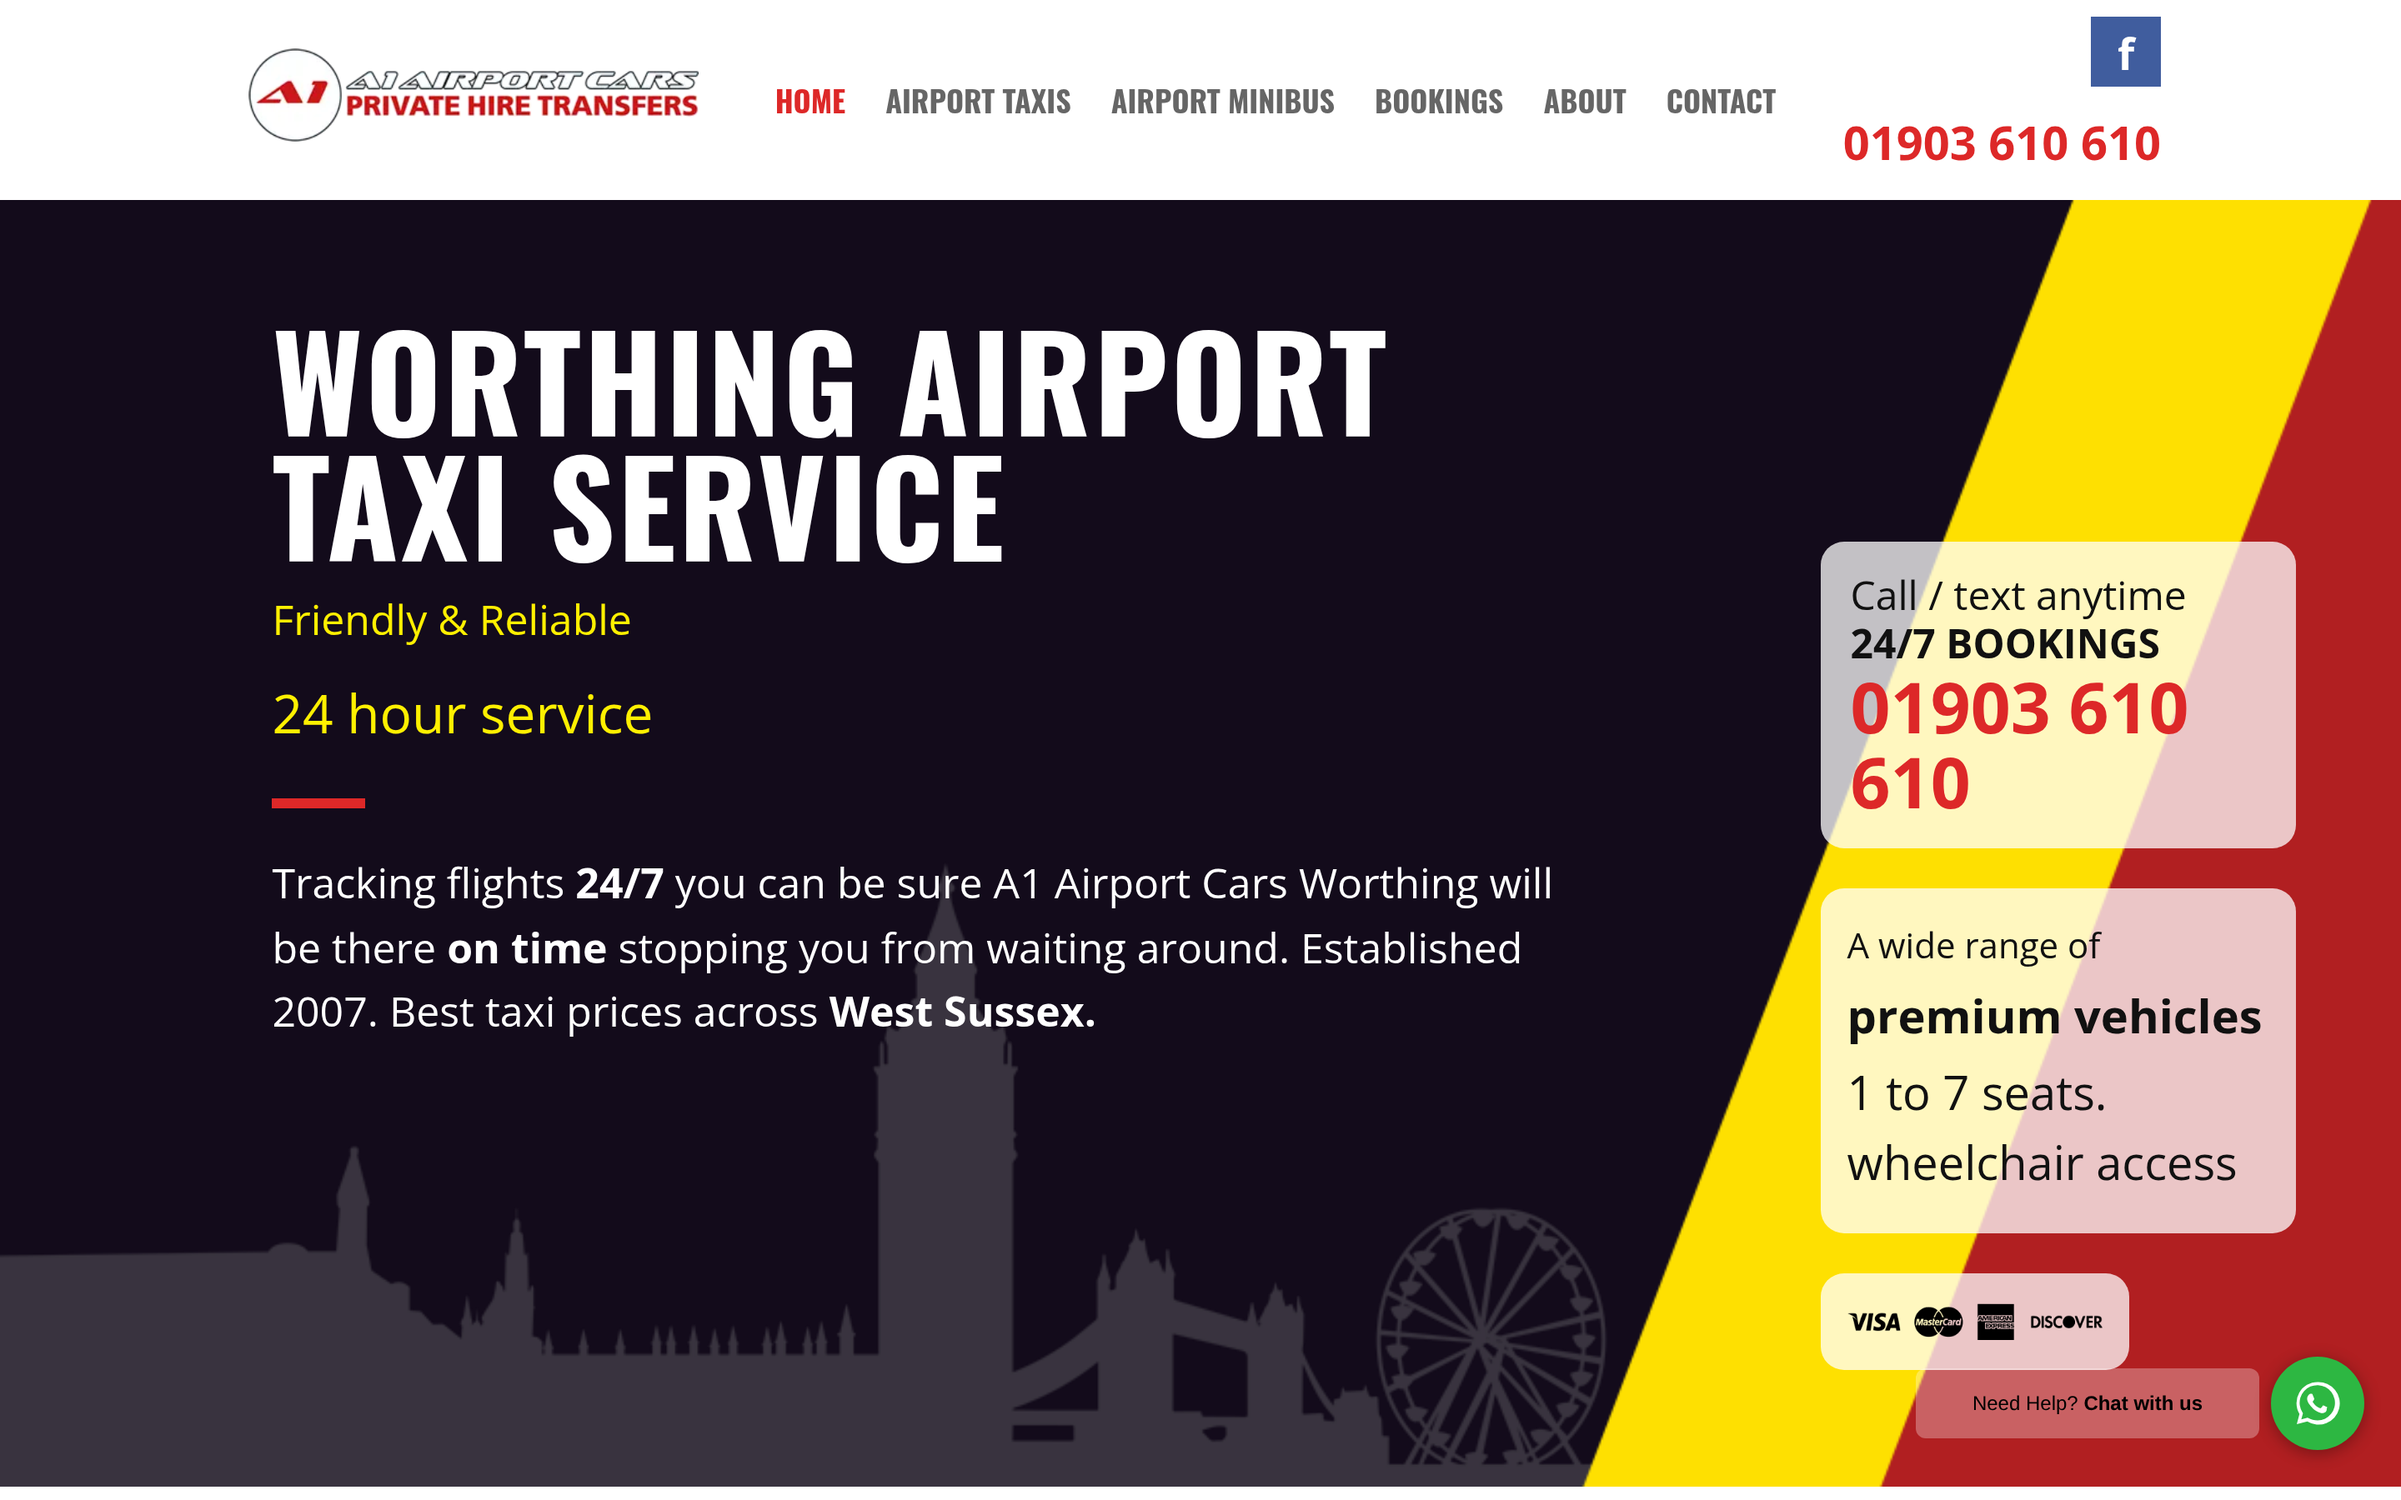
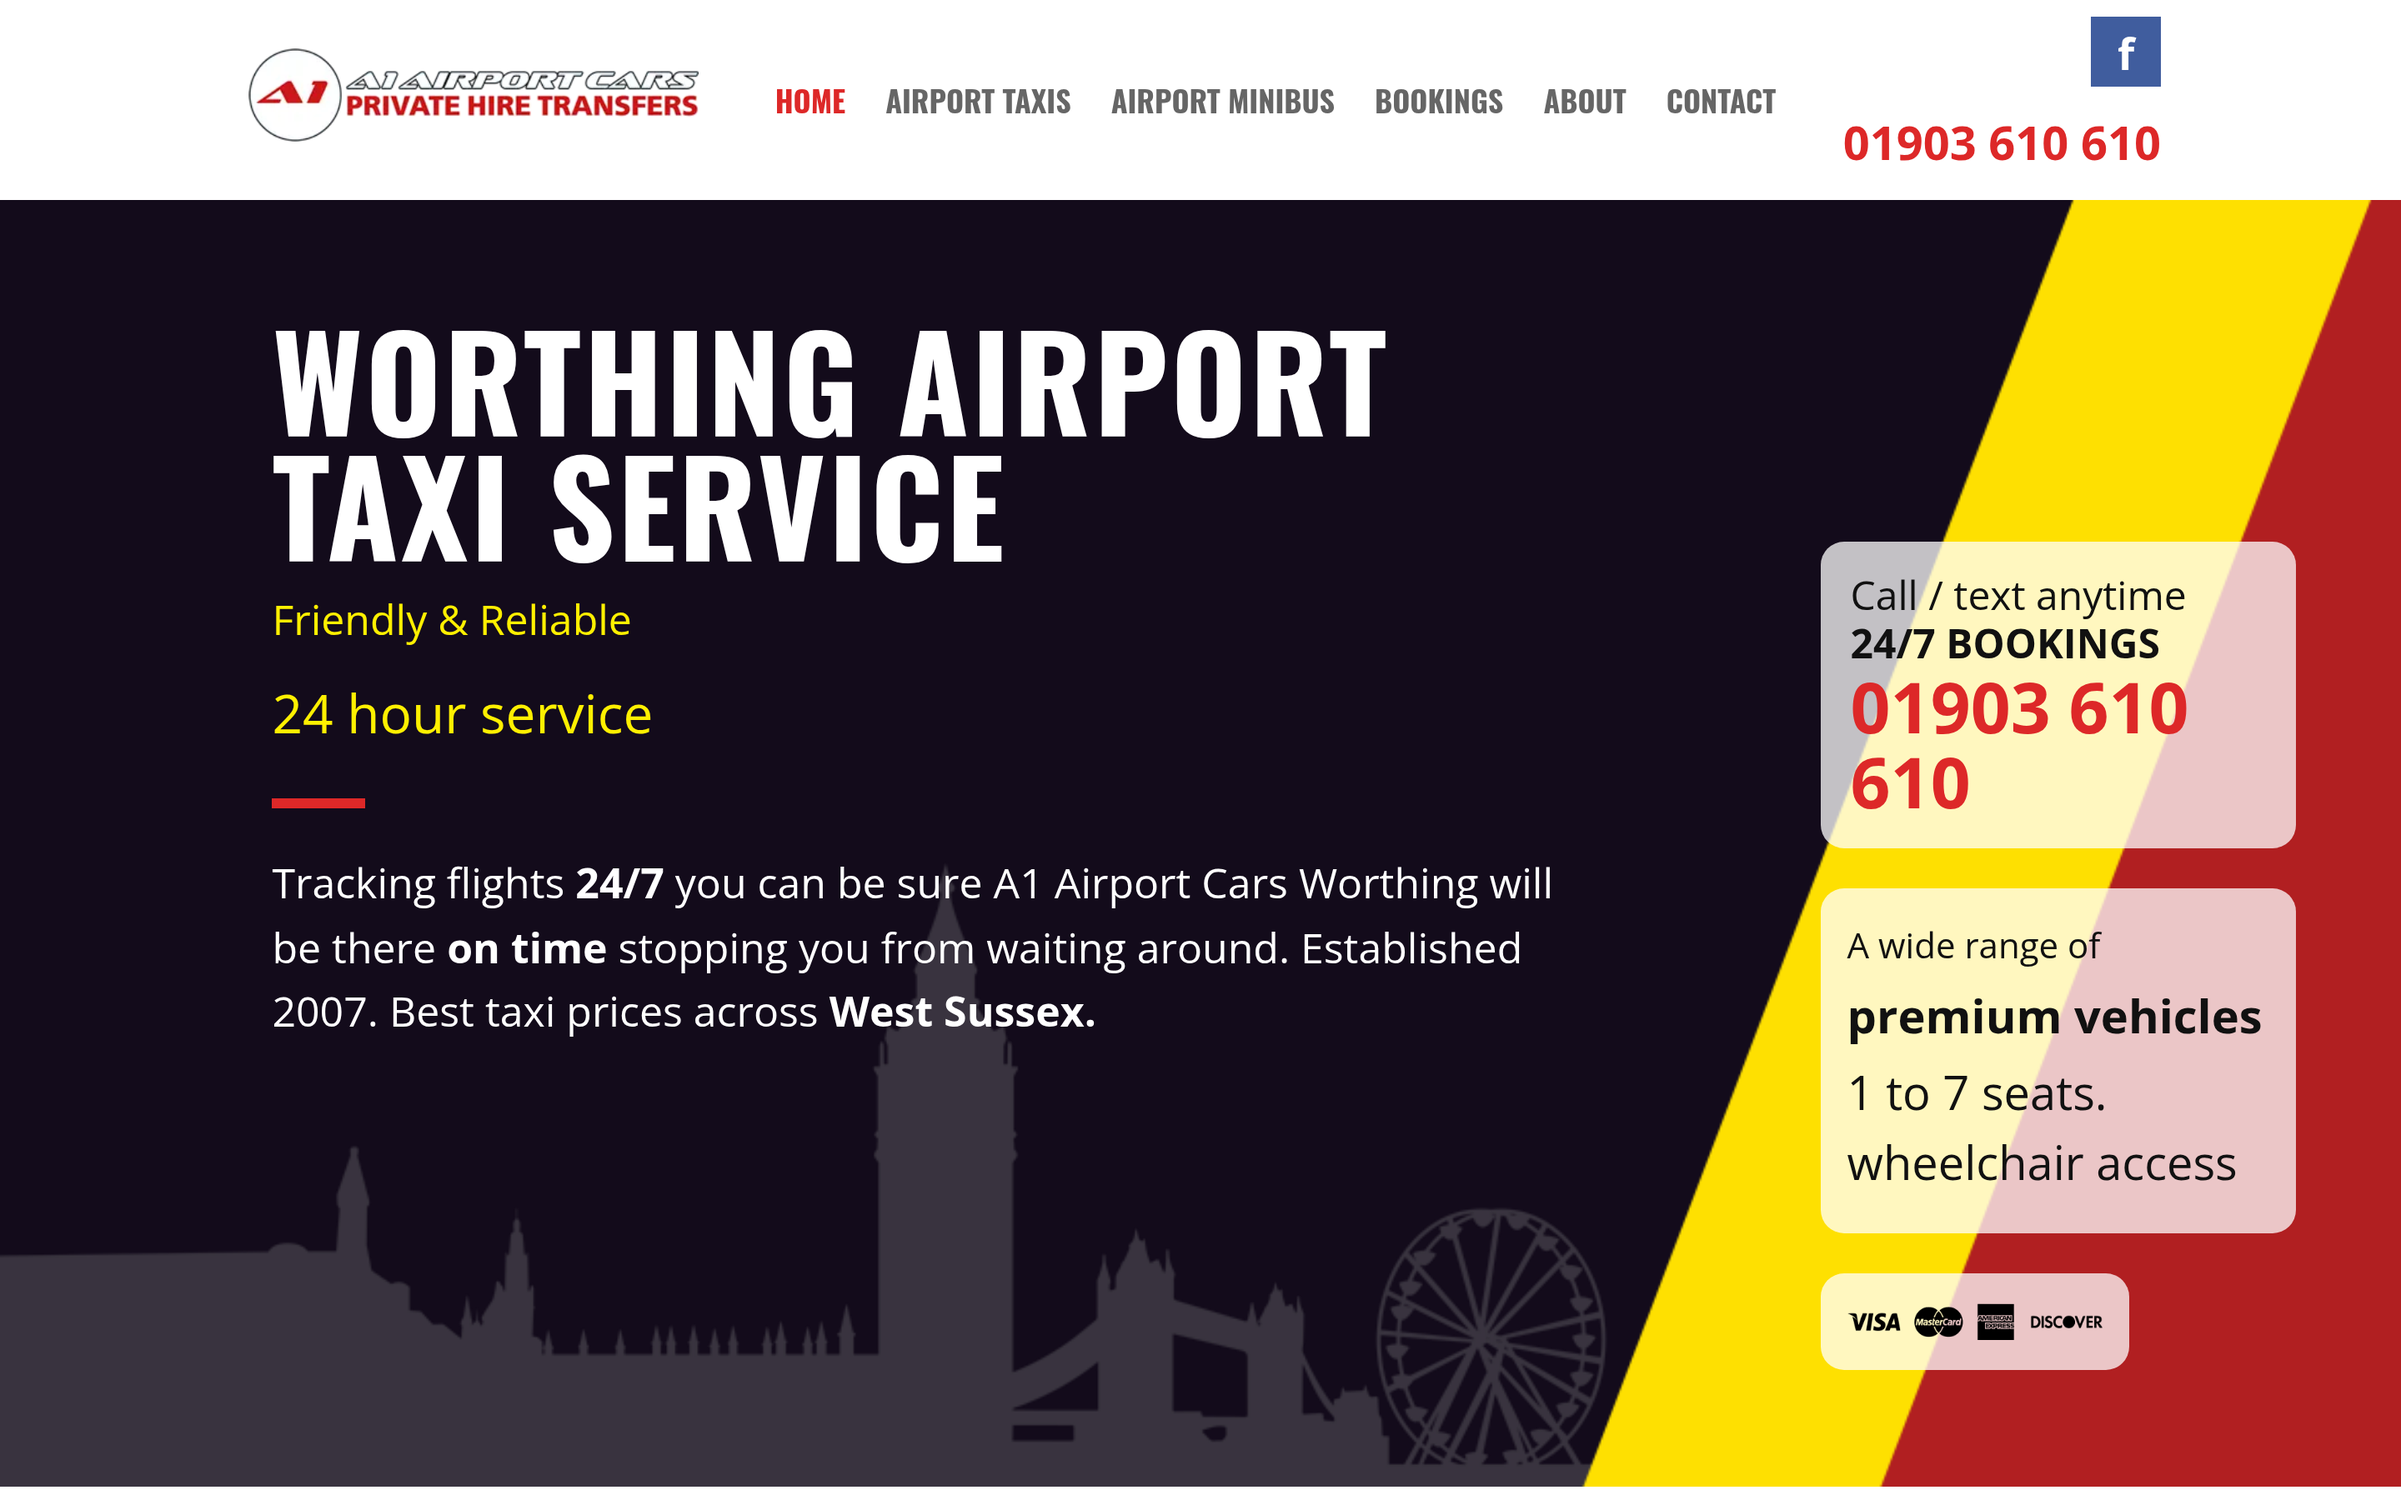
Changes

Changed region(s): [[0.7812, 0.9022, 1.0, 0.9644]]

diff --git a/scripts/mockups/capture.py b/scripts/mockups/capture.py
@@ -23,6 +23,7 @@ HIDE = """
   [id*="intercom" i],[class*="intercom" i],[id*="crisp" i],[class*="crisp" i],[id*="tawk" i],
   [id*="hubspot-messages" i],[class*="chat-widget" i],[id*="chat-widget" i],[class*="drift" i],
   iframe[src*="chat" i],iframe[title*="chat" i],
+  a[href*="wa.me"],a[href*="whatsapp" i],[class*="whatsapp" i],[id*="whatsapp" i],
   #lovable-badge,[id*="lovable" i],a[href*="lovable.dev"],[class*="lovable-badge" i]
   {display:none!important;visibility:hidden!important}`;
   const s = document.createElement('style'); s.textContent = css; document.head.appendChild(s);
@@ -38,8 +39,9 @@ HIDE = """
     const r = el.getBoundingClientRect();
     const t = (el.textContent||'');
     const consent = /cookie|consent|privacy matters|before you continue|accept all|reject|necessary only/i.test(t) && r.top > 40;
+    const chat = /chat with us|need help\?/i.test(t) && r.top > vh * 0.5;
     const bubble = r.width < 160 && r.height < 160 && r.top > vh * 0.6 && (r.left > vw * 0.6 || r.right < vw * 0.4);
-    if (consent || bubble) el.style.setProperty('display','none','important');
+    if (consent || bubble || chat) el.style.setProperty('display','none','important');
   });
   document.querySelectorAll('[role="dialog"],[aria-modal="true"]').forEach(el => {
     if (/cookie|consent|privacy|accept/i.test(el.textContent||'')) el.style.setProperty('display','none','important');
